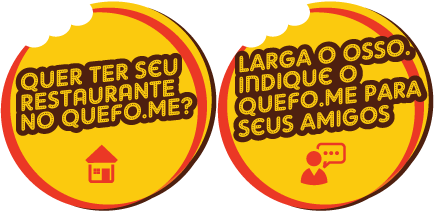
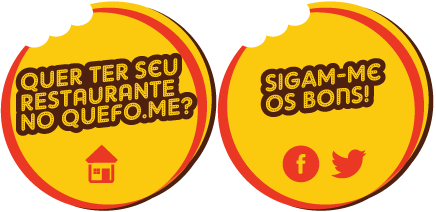
Sprite com imagens do rodapé + CSS para exibir as duas imagens no rodapé

Changed region(s): [[0.5367, 0.1415, 0.9839, 0.8774]]

diff --git a/public/assets/css/quefome.css b/public/assets/css/quefome.css
@@ -1670,16 +1670,24 @@ a:hover, a:focus {
 	display: table-row;
 }
 
-.footer .new-delivery, .footer .indicate-delivery {
-	display: none;
+.footer .new-delivery, .footer .social-networks {
+	display: inline-block;
+	background: url("/assets/img/footer_436x212.png") no-repeat;
+	background-size: 300px;
+	width: 150px;
+	height: 146px;
+	margin-top: 10px;
+}
+
+.footer .new-delivery {
+	float: left;
+	margin-left: 2%;
 }
 
 .footer .social-networks {
-	background: url("/assets/img/footer_sigam_me_os_bons_217x212.png") no-repeat;
-	background-position: top center;
-	background-size: 150px;
-	height: 147px;
-	margin-top: 10px;
+	float: right;
+	background-position: -149px;
+	margin-right: 2%;
 }
 
 .not-found {
@@ -1902,6 +1910,16 @@ input.invalid:focus, select.invalid:focus {
 	.order-finish-page .payment-method-panel .payment-method-category .payment-method {
 		float: none;
 		width: 100%;
+	}
+
+	.footer .new-delivery {
+		margin-left: 5%;
+	}
+
+	.footer .social-networks {
+		float: left;
+		margin-left: 10px;
+		margin-right: 0px;
 	}
 }
 
@@ -2359,36 +2377,8 @@ input.invalid:focus, select.invalid:focus {
 		height: 164px;
 	}
 
-	.footer .new-delivery, .footer .indicate-delivery {
-		background: url("/assets/img/footer_436x212.png") no-repeat;
-		background-size: 300px;
-		float: left;
-		display: inline-block;
-		margin-top: 10px;
-	}
-
 	.footer .new-delivery {
-		width: 150px;
-		height: 146px;
-		margin-left: 5%;
-		margin-right: 1%;
-	}
-
-	.footer .indicate-delivery {
-		width: 151px;
-		height: 146px;
-		margin-left: 1%;
-		background-position: -149px;
-	}
-
-	.footer .social-networks {
-		float: right;
-		width: 150px;
-		height: 147px;
-		margin-top: 8px;
-		margin-left: 1%;
-		margin-right: 5%;
-		background-size: 150px;
+		margin-left: 10%;
 	}
 
 	.login-message .message {
@@ -2425,14 +2415,6 @@ input.invalid:focus, select.invalid:focus {
 
 	.establishment-page .order-panel {
 		padding: 0px 30%;
-	}
-
-	.footer .new-delivery {
-		margin-left: 10%;
-	}
-
-	.footer .social-networks {
-		margin-right: 10%;
 	}
 }
 
